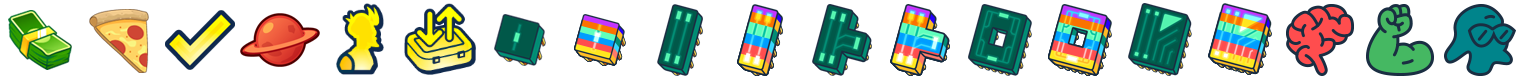
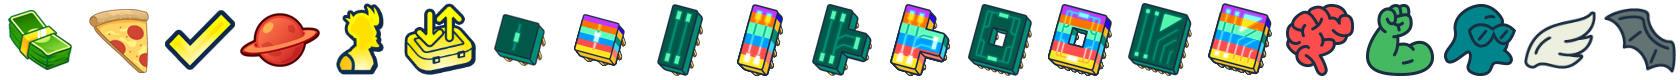
Update - Game Data

diff --git a/inc/fwothot_data.js b/inc/fwothot_data.js
@@ -1,10 +1,12 @@
-/* Character list (112) ------------------------------ */
+/* Character list (122) ------------------------------ */
 
-	game_data['chr_ord'] = ['1','3','2','79','4','5','6','7','93','8','9','10','96','11','12','76','13','14','105','15','16','17','18','19','20','21','22','23','94','24','78','25','107','26','27','110','28','29','104','92','83','111','30','31','32','33','34','35','77','36','37','38','39','40','41','82','42','43','44','45','46','91','87','47','108','48','49','86','50','51','52','53','84','54','55','95','56','101','57','112','102','58','63','61','59','85','60','106','62','103','64','65','97','98','99','66','67','88','80','68','81','100','69','70','89','71','75','72','73','74','90','109'];
+	game_data['chr_ord'] = ['1','3','120','113','2','79','4','5','6','7','93','8','9','10','96','11','12','76','121','13','14','105','15','16','17','18','19','20','21','22','23','122','94','24','78','25','107','26','27','110','28','29','104','92','83','111','30','31','32','33','34','35','114','77','36','37','38','115','39','40','41','82','42','43','44','45','46','91','87','47','117','108','116','48','49','86','50','51','52','53','84','54','55','118','95','56','101','57','112','102','58','63','61','59','85','60','106','62','103','64','65','97','98','99','66','67','88','80','68','81','100','69','70','89','71','75','72','73','74','119','90','109'];
 
 	game_data['chr_all'] = {
 		  '1' : [ "Amy",						null,					1, 0, 0, 2, 0 ],
 		  '3' : [ "Amy",						"Amazonian",			0, 0, 1, 1, 0 ],
+		'120' : [ "Amy",						"Gynecaladriel",		4, 0, 0, 2, 0 ],
+		'113' : [ "Amy",						"Mini Golf",			1, 0, 0, 2, 0 ],
 		  '2' : [ "Amy",						"Nightlife",			4, 0, 0, 2, 0 ],
 		 '79' : [ "Amy",						"Power Suit",			4, 0, 1, 2, 0 ],
 		  '4' : [ "Ben Franklin",				null,					1, 0, 0, 0, 0 ],
@@ -19,6 +21,7 @@
 		 '11' : [ "Bender",						"Pharaoh",				0, 0, 1, 1, 0 ],
 		 '12' : [ "Bender",						"Ramblin' Rodriguez",	3, 0, 0, 2, 0 ],
 		 '76' : [ "Bender",						"Santa Claus",			4, 0, 0, 1, 0 ],
+		'121' : [ "Bender",						"Titanius Anglesmith",	0, 0, 1, 3, 0 ],
 		 '13' : [ "Bender's Mom",				null,					2, 0, 1, 1, 0 ],
 		 '14' : [ "Bev",						null,					3, 0, 0, 1, 0 ],
 		'105' : [ "Bigfoot",					null,					0, 0, 1, 2, 0 ],
@@ -31,30 +34,33 @@
 		 '21' : [ "Calculon",					null,					0, 0, 0, 2, 0 ],
 		 '22' : [ "Calculon",					"Ghost",				2, 0, 0, 1, 0 ],
 		 '23' : [ "Calculon",					"Shakespeare",			4, 0, 0, 0, 0 ],
+		'122' : [ "Calculon",					"Sir Knight",			2, 0, 1, 2, 0 ],
 		 '94' : [ "Cartridge Unit",				null,					4, 0, 1, 0, 0 ],
 		 '24' : [ "Father Changstein El-Gamal",	null,					4, 0, 1, 0, 0 ],
 		 '78' : [ "Chanukah Zombie",			null,					0, 0, 1, 1, 0 ],
 		 '25' : [ "Chris Hardwick",				null,					0, 0, 2, 2, 0 ],
-		'107' : [ "Clamps",						null,					3, 0, 3, 1, 0 ],
+		'107' : [ "Clamps",						null,					3, 0, 1, 1, 0 ],
 		 '26' : [ "Crushinator",				null,					4, 0, 1, 1, 0 ],
 		 '27' : [ "Destructor",					null,					0, 0, 1, 1, 0 ],
-		'110' : [ "Donbot",						null,					5, 0, 3, 0, 0 ],
+		'110' : [ "Donbot",						null,					5, 0, 2, 0, 0 ],
 		 '28' : [ "Dr. Cahill",					null,					1, 0, 1, 2, 0 ],
 		 '29' : [ "Mutant Dwayne",				null,					4, 0, 1, 1, 0 ],
 		'104' : [ "El Chupanibre",				null,					5, 0, 1, 1, 0 ],
 		 '92' : [ "Elzar",						null,					4, 0, 0, 2, 0 ],
 		 '83' : [ "Ethan Bubblegum Tate",		null,					0, 0, 2, 2, 0 ],
-		'111' : [ "Fanny",						null,					4, 0, 3, 2, 0 ],
+		'111' : [ "Fanny",						null,					4, 0, 1, 2, 0 ],
 		 '30' : [ "Fender",						null,					2, 0, 0, 2, 0 ],
 		 '31' : [ "Flexo",						null,					2, 0, 1, 1, 0 ],
 		 '32' : [ "Free Waterfall Jr.",			null,					3, 0, 0, 2, 0 ],
 		 '33' : [ "Fry",						null,					3, 1, 0, 1, 0 ],
 		 '34' : [ "Fry",						"Bachelor",				4, 0, 0, 2, 0 ],
 		 '35' : [ "Fry",						"Devilish",				0, 0, 0, 0, 0 ],
+		'114' : [ "Fry",						"DOOP Soldier",			3, 0, 2, 2, 0 ],
 		 '77' : [ "Fry",						"Power Suit",			3, 0, 2, 1, 0 ],
 		 '36' : [ "Fry",						"Robot",				2, 0, 0, 0, 0 ],
 		 '37' : [ "Fry",						"Slurm Duke",			4, 0, 0, 0, 0 ],
 		 '38' : [ "George Takei",				null,					0, 0, 1, 2, 0 ],
+		'115' : [ "Glab",						null,					4, 0, 2, 0, 0 ],
 		 '39' : [ "Hattie McDoogal",			null,					0, 0, 0, 1, 0 ],
 		 '40' : [ "Hedonismbot",				null,					2, 0, 0, 0, 0 ],
 		 '41' : [ "Hermes",						null,					4, 0, 0, 0, 0 ],
@@ -67,7 +73,9 @@
 		 '91' : [ "The Professor",				"Nude",					0, 0, 1, 1, 0 ],
 		 '87' : [ "The Professor",				"Power Suit",			0, 0, 1, 0, 0 ],
 		 '47' : [ "Hyper-Chicken",				null,					4, 0, 1, 0, 0 ],
-		'108' : [ "Joey Mousepad",				null,					2, 0, 3, 2, 0 ],
+		'117' : [ "Inez",						null,					2, 0, 1, 0, 0 ],
+		'108' : [ "Joey Mousepad",				null,					2, 0, 2, 2, 0 ],
+		'116' : [ "Jrrr",						null,					3, 0, 2, 2, 0 ],
 		 '48' : [ "Kif",						null,					3, 0, 2, 1, 0 ],
 		 '49' : [ "Kif",						"Cowboy",				3, 0, 2, 2, 0 ],
 		 '86' : [ "Kwanzaabot",					null,					2, 0, 0, 2, 0 ],
@@ -78,11 +86,12 @@
 		 '84' : [ "Leela",						"Power Suit",			1, 0, 2, 1, 0 ],
 		 '54' : [ "Leela",						"Robot",				2, 0, 2, 1, 0 ],
 		 '55' : [ "Leg Mutant",					null,					3, 0, 0, 2, 0 ],
+		'118' : [ "Leo",						null,					5, 0, 3, 5, 0 ],
 		 '95' : [ "Lisa",						null,					0, 0, 1, 0, 0 ],
 		 '56' : [ "Lrrr",						null,					0, 0, 2, 1, 0 ],
 		'101' : [ "Lrrr",						"Midlife Crisis",		4, 0, 2, 2, 0 ],
 		 '57' : [ "Malfunctioning Eddie",		null,					3, 0, 0, 1, 0 ],
-		'112' : [ "Mayor Poopenmeyer",			null,					0, 0, 3, 1, 0 ],
+		'112' : [ "Mayor Poopenmeyer",			null,					0, 0, 0, 1, 0 ],
 		'102' : [ "Michelle",					null,					3, 0, 1, 2, 0 ],
 		 '58' : [ "Monique",					null,					4, 0, 2, 2, 0 ],
 		 '63' : [ "Mr. Peppy",					null,					3, 0, 1, 2, 0 ],
@@ -113,6 +122,7 @@
 		 '72' : [ "URL",						null,					2, 0, 1, 2, 0 ],
 		 '73' : [ "URL",						"Off-duty",				3, 0, 1, 2, 0 ],
 		 '74' : [ "Mutant Vyolet",				null,					3, 0, 0, 2, 0 ],
+		'119' : [ "Zapp",						null,					0, 0, 3, 5, 0 ],
 		 '90' : [ "Zoidberg",					null,					1, 0, 1, 0, 0 ],
-		'109' : [ "Zoidberg",					"Money Suit",			4, 0, 3, 0, 0 ]
+		'109' : [ "Zoidberg",					"Money Suit",			4, 0, 1, 0, 0 ]
 	};

diff --git a/inc/fwothot_main.js b/inc/fwothot_main.js
@@ -22,7 +22,7 @@ var user_data = JSON.parse(localStorage.getItem('user_data')) || {},
 		'chr_map' : ['name', 'outfit', 'class', 'level', 'attack', 'affinity', 'rank' ],
 		'chr_cls' : [ [ 'Captain', '#ffe52c' ], [ 'Scientist', '#ff4d4d' ], [ 'Robot', '#009dfe' ], [ 'Delivery Boy', '#5efcc1' ], [ 'Influencer', '#ff7200' ], [ 'Villain', '#c238ff' ] ],
 		'chr_atk' : [ 'Throw', 'Melee', 'Shoot', 'N/A' ],
-		'chr_aff' : [ 'Brainy', 'Brave', 'Cool', 'N/A' ]
+		'chr_aff' : [ 'Brainy', 'Brave', 'Cool', 'Good', 'Evil', 'N/A' ]
 	};
 
 /* Data functions ----------------------------------- */

diff --git a/inc/fwothot.css b/inc/fwothot.css
@@ -69,7 +69,9 @@
 	.table_affinity_0 { background-position: -320px top; }
 	.table_affinity_1 { background-position: -340px top; }
 	.table_affinity_2 { background-position: -360px top; }
-	.table_affinity_3 { background: none; }
+	.table_affinity_3 { background-position: -380px top; }
+	.table_affinity_4 { background-position: -400px top; }
+	.table_affinity_5 { background: none; }
 
 
 	/* Text styles --------------------------------------------------- */
